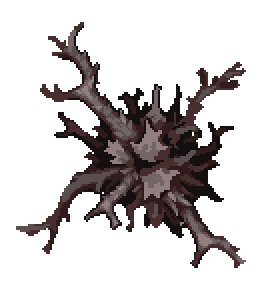
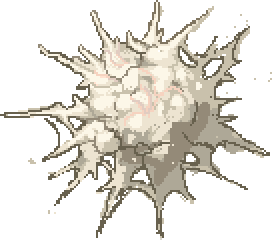
Arena waves, move thinker renderer away

diff --git a/Content/Bosses/BrainRedux/TheThinker.cs b/Content/Bosses/BrainRedux/TheThinker.cs
@@ -3,6 +3,7 @@ using StarlightRiver.Content.Biomes;
 using StarlightRiver.Content.Buffs;
 using StarlightRiver.Content.Tiles.Crimson;
 using StarlightRiver.Core.Systems.LightingSystem;
+using StarlightRiver.Core.Systems.PixelationSystem;
 using System;
 using System.Collections.Generic;
 using System.Linq;
@@ -13,7 +14,7 @@ using Terraria.ModLoader.IO;
 
 namespace StarlightRiver.Content.Bosses.BrainRedux
 {
-	internal class TheThinker : ModNPC
+	internal partial class TheThinker : ModNPC
 	{
 		public static readonly List<TheThinker> toRender = [];
 		public static Effect bodyShader;
@@ -47,8 +48,13 @@ namespace StarlightRiver.Content.Bosses.BrainRedux
 
 		public override void Load()
 		{
-			GraymatterBiome.onDrawHallucinationMap += DrawAura;
-			GraymatterBiome.onDrawOverHallucinationMap += DrawMe;
+			GraymatterBiome.onDrawHallucinationMap += DrawGrayAura;
+			GraymatterBiome.onDrawOverHallucinationMap += DrawShadedBody;
+		}
+
+		public override void SetStaticDefaults()
+		{
+			ModContent.GetInstance<PixelationSystem>().RegisterScreenTarget("ThinkerArena", "StarlightRiver/Assets/Bosses/BrainRedux/ShellColors", RenderLayer.OverPlayers);
 		}
 
 		public override void SetDefaults()
@@ -62,6 +68,7 @@ namespace StarlightRiver.Content.Bosses.BrainRedux
 			NPC.knockBackResist = 0f;
 			NPC.friendly = false;
 			NPC.noTileCollide = true;
+			NPC.hide = true;
 
 			NPC.boss = true;
 
@@ -318,59 +325,6 @@ namespace StarlightRiver.Content.Bosses.BrainRedux
 			return Helpers.Helper.CheckCircularCollision(NPC.Center, 64, target.Hitbox);
 		}
 
-		public override bool PreDraw(SpriteBatch spriteBatch, Vector2 screenPos, Color drawColor)
-		{
-			Texture2D tex = Assets.Bosses.BrainRedux.ShellBack.Value;
-			Vector2 pos = home - Main.screenPosition - tex.Size() / 2f;
-
-			LightingBufferRenderer.DrawWithLighting(pos, tex);
-
-			if (active)
-			{
-				var spike = Assets.Misc.SpikeTell.Value;
-				var solid = Assets.Bosses.BrainRedux.ShellSpike.Value;
-
-				for (int k = 0; k < 36; k++)
-				{
-					var rot = k / 36f * 6.28f;
-					Vector2 edge = home + Vector2.UnitX.RotatedBy(rot) * (hurtRadius + 50);
-					spriteBatch.Draw(spike, edge - Main.screenPosition, new Rectangle(spike.Width / 2, 0, spike.Width / 2, spike.Height), new Color(255, 50, 80, 0) * 0.25f, rot - 1.57f, new Vector2(spike.Width / 4f, spike.Height), 1.5f, 0, 0);
-					spriteBatch.Draw(solid, edge - Main.screenPosition, null, new Color(Lighting.GetSubLight(edge)), rot - 1.57f / 2f, solid.Size(), 1f, 0, 0);
-				}
-
-				for (int k = 0; k < 36; k++)
-				{
-					var rot = (k + 0.5f) / 36f * 6.28f;
-					var sin = (float)Math.Sin(Main.GameUpdateCount * 0.01f + k);
-					Vector2 edge = home + Vector2.UnitX.RotatedBy(rot) * (hurtRadius + 90 + sin * 40);
-					spriteBatch.Draw(spike, edge - Main.screenPosition, new Rectangle(spike.Width / 2, 0, spike.Width / 2, spike.Height), new Color(255, 50, 80, 0) * 0.25f * (1f - sin + 0.5f), rot - 1.57f, new Vector2(spike.Width / 4f, spike.Height), 1.5f, 0, 0);
-					spriteBatch.Draw(solid, edge - Main.screenPosition, null, new Color(Lighting.GetSubLight(edge)), rot - 1.57f / 2f, solid.Size(), 1f, 0, 0);
-				}
-
-				// TODO: Replace this with a mesh render mapping a texture to it
-				for (int k = 0; k < 72; k++)
-				{
-					var rot = k / 72f * 6.28f;
-					Vector2 edge = home + Vector2.UnitX.RotatedBy(rot) * (hurtRadius + 50);
-					spriteBatch.Draw(solid, edge - Main.screenPosition, null, Lighting.GetColor((edge / 16).ToPoint()), rot + 1.57f / 2f, solid.Size() / 2f , 1.5f, 0, 0);
-				}
-				for (int k = 0; k < 72; k++)
-				{
-					var rot = k / 72f * 6.28f;
-					Vector2 edge = home + Vector2.UnitX.RotatedBy(rot) * (hurtRadius + 70);
-					spriteBatch.Draw(solid, edge - Main.screenPosition, null, Lighting.GetColor((edge / 16).ToPoint()), rot + 1.57f / 2f + 3.14f, solid.Size() / 2f, 1.5f, 0, 0);
-				}
-				for (int k = 0; k < 72; k++)
-				{
-					var rot = k / 72f * 6.28f;
-					Vector2 edge = home + Vector2.UnitX.RotatedBy(rot) * (hurtRadius + 90);
-					spriteBatch.Draw(solid, edge - Main.screenPosition, null, Lighting.GetColor((edge / 16).ToPoint()), rot + 1.57f / 2f, solid.Size() / 2f, 1.5f, 0, 0);
-				}
-			}
-
-			return false;
-		}
-
 		public override void SaveData(TagCompound tag)
 		{
 			tag.Add("active", active);
@@ -386,50 +340,6 @@ namespace StarlightRiver.Content.Bosses.BrainRedux
 		public override bool? DrawHealthBar(byte hbPosition, ref float scale, ref Vector2 position)
 		{
 			return false;
-		}
-
-		private void DrawAura(SpriteBatch sb)
-		{
-			Texture2D glow = ModContent.Request<Texture2D>("StarlightRiver/Assets/Keys/GlowAlpha").Value;
-			Color color = Color.White;
-			color.A = 0;
-
-			foreach (TheThinker thinker in toRender)
-			{
-				for (int k = 0; k < 8; k++)
-				{
-					sb.Draw(glow, thinker.NPC.Center - Main.screenPosition, null, color, 0, glow.Size() / 2f, (140 + thinker.ExtraRadius) * 4 / glow.Width, 0, 0);
-				}
-			}
-
-			toRender.RemoveAll(n => n is null || !n.NPC.active);
-		}
-
-		private void DrawMe(SpriteBatch sb)
-		{
-			if (bodyShader is null)
-				bodyShader = Terraria.Graphics.Effects.Filters.Scene["ThinkerBody"].GetShader().Shader;
-
-			foreach (TheThinker thinker in toRender)
-			{
-				bodyShader.Parameters["u_resolution"].SetValue(Assets.Bosses.BrainRedux.Heart.Size());
-				bodyShader.Parameters["u_time"].SetValue(Main.GameUpdateCount * 0.015f);
-
-				bodyShader.Parameters["mainbody_t"].SetValue(Assets.Bosses.BrainRedux.Heart.Value);
-				bodyShader.Parameters["linemap_t"].SetValue(Assets.Bosses.BrainRedux.HeartLine.Value);
-				bodyShader.Parameters["noisemap_t"].SetValue(Assets.Noise.PerlinNoise.Value);
-				bodyShader.Parameters["overlay_t"].SetValue(Assets.Bosses.BrainRedux.HeartOver.Value);
-				bodyShader.Parameters["normal_t"].SetValue(Assets.Bosses.BrainRedux.HeartNormal.Value);
-
-				sb.End();
-				sb.Begin(default, default, SamplerState.PointWrap, default, default, bodyShader, Main.GameViewMatrix.TransformationMatrix);
-
-				Texture2D tex = Assets.Bosses.BrainRedux.Heart.Value;
-				sb.Draw(tex, thinker.NPC.Center - Main.screenPosition, null, Color.White, thinker.NPC.rotation, tex.Size() / 2f, thinker.NPC.scale, 0, 0);
-
-				sb.End();
-				sb.Begin(default, default, SamplerState.PointWrap, default, default, default, Main.GameViewMatrix.TransformationMatrix);
-			}
 		}
 	}
 }

diff --git a/Content/Bosses/BrainRedux/TheThinker.Renderer.cs b/Content/Bosses/BrainRedux/TheThinker.Renderer.cs
@@ -1,0 +1,156 @@
+using StarlightRiver.Core;
+using StarlightRiver.Core.Systems.LightingSystem;
+using StarlightRiver.Core.Systems.PixelationSystem;
+using StarlightRiver.Helpers;
+using System;
+using System.Collections.Generic;
+using Terraria.Graphics.Effects;
+
+namespace StarlightRiver.Content.Bosses.BrainRedux
+{
+	internal partial class TheThinker
+	{
+		private List<Vector2> arenaCache;
+		private Trail arenaTrail;
+
+		public override void DrawBehind(int index)
+		{
+			Main.instance.DrawCacheNPCProjectiles.Add(index);
+		}
+
+		public void DrawUnderShell()
+		{
+			Texture2D tex = Assets.Bosses.BrainRedux.ShellBack.Value;
+			Vector2 pos = home - Main.screenPosition - tex.Size() / 2f;
+
+			LightingBufferRenderer.DrawWithLighting(pos, tex);
+		}
+
+		public void DrawArena(SpriteBatch spriteBatch)
+		{
+			Texture2D spike = Assets.Misc.SpikeTell.Value;
+			Texture2D solid = Assets.Bosses.BrainRedux.ShellSpike.Value;
+
+			for (int k = 0; k < 36; k++)
+			{
+				float offset = (float)Math.Sin(k / 36f * 6.28f * 8 + Main.GameUpdateCount * 0.025f) * 15;
+				offset += (float)Math.Cos(k / 36f * 6.28f * 6 + Main.GameUpdateCount * 0.04f) * 15;
+
+				float rot = k / 36f * 6.28f;
+				Vector2 edge = home + Vector2.UnitX.RotatedBy(rot) * (hurtRadius + 50 + offset);
+				spriteBatch.Draw(spike, edge - Main.screenPosition, new Rectangle(spike.Width / 2, 0, spike.Width / 2, spike.Height), new Color(255, 50, 80, 0) * 0.25f, rot - 1.57f, new Vector2(spike.Width / 4f, spike.Height), 1.5f, 0, 0);
+				spriteBatch.Draw(solid, edge - Main.screenPosition, null, new Color(Lighting.GetSubLight(edge)), rot - 1.57f / 2f, solid.Size(), 1f, 0, 0);
+
+				rot = (k + 0.5f) / 36f * 6.28f;
+				float sin = (float)Math.Sin(Main.GameUpdateCount * 0.01f + k);
+				edge = home + Vector2.UnitX.RotatedBy(rot) * (hurtRadius + 90 + sin * 20 + offset);
+				spriteBatch.Draw(spike, edge - Main.screenPosition, new Rectangle(spike.Width / 2, 0, spike.Width / 2, spike.Height), new Color(255, 50, 80, 0) * 0.25f * (1f - sin + 0.5f), rot - 1.57f, new Vector2(spike.Width / 4f, spike.Height), 1.5f, 0, 0);
+				spriteBatch.Draw(solid, edge - Main.screenPosition, null, new Color(Lighting.GetSubLight(edge)), rot - 1.57f / 2f, solid.Size(), 1f, 0, 0);
+			}
+
+			ModContent.GetInstance<PixelationSystem>().QueueRenderAction("ThinkerArena", () =>
+			{
+				ManageArenaTrail();
+				DrawArenaEdgeTrail();
+			});
+		}
+
+		protected void ManageArenaTrail()
+		{
+			if (arenaCache is null || arenaCache.Count != 73)
+				arenaCache = new(new Vector2[73]);
+
+			for (int k = 0; k < 72; k++)
+			{
+				float rot = k / 72f * 6.28f;
+				float offset = (float)Math.Sin(k / 72f * 6.28f * 8 + Main.GameUpdateCount * 0.025f) * 15;
+				offset += (float)Math.Cos(k / 72f * 6.28f * 6 + Main.GameUpdateCount * 0.04f) * 15;
+
+				arenaCache[k] = home + Vector2.UnitX.RotatedBy(rot) * (hurtRadius + 70 + offset);
+			}
+
+			arenaCache[72] = arenaCache[0];
+
+			if (arenaTrail is null || arenaTrail.IsDisposed)
+			{
+				arenaTrail = new Trail(Main.instance.GraphicsDevice, 73, new NoTip(), factor => 56, factor =>
+				{
+					int index = (int)(factor.X * 72);
+					return new Color(Lighting.GetSubLight(arenaCache[index]));
+				});
+			}
+
+			arenaTrail.Positions = arenaCache.ToArray();
+			arenaTrail.NextPosition = NPC.Center;
+		}
+
+		public void DrawArenaEdgeTrail()
+		{
+			Effect effect = Filters.Scene["RepeatingChain"].GetShader().Shader;
+
+			var world = Matrix.CreateTranslation(-Main.screenPosition.Vec3());
+			Matrix view = Main.GameViewMatrix.TransformationMatrix;
+			var projection = Matrix.CreateOrthographicOffCenter(0, Main.screenWidth, Main.screenHeight, 0, -1, 1);
+
+			effect.Parameters["alpha"].SetValue(1f);
+			effect.Parameters["repeats"].SetValue(81f);
+			effect.Parameters["transformMatrix"].SetValue(world * view * projection);
+
+			effect.Parameters["sampleTexture"].SetValue(Assets.Bosses.BrainRedux.ArenaSegment.Value);
+			arenaTrail?.Render(effect);
+		}
+
+		public override bool PreDraw(SpriteBatch spriteBatch, Vector2 screenPos, Color drawColor)
+		{
+			DrawUnderShell();
+
+			if (active)
+				DrawArena(spriteBatch);
+
+			return false;
+		}
+
+		private void DrawGrayAura(SpriteBatch sb)
+		{
+			Texture2D glow = ModContent.Request<Texture2D>("StarlightRiver/Assets/Keys/GlowAlpha").Value;
+			Color color = Color.White;
+			color.A = 0;
+
+			foreach (TheThinker thinker in toRender)
+			{
+				for (int k = 0; k < 8; k++)
+				{
+					sb.Draw(glow, thinker.NPC.Center - Main.screenPosition, null, color, 0, glow.Size() / 2f, (140 + thinker.ExtraRadius) * 4 / glow.Width, 0, 0);
+				}
+			}
+
+			toRender.RemoveAll(n => n is null || !n.NPC.active);
+		}
+
+		private void DrawShadedBody(SpriteBatch sb)
+		{
+			bodyShader ??= Terraria.Graphics.Effects.Filters.Scene["ThinkerBody"].GetShader().Shader;
+
+			foreach (TheThinker thinker in toRender)
+			{
+				bodyShader.Parameters["u_resolution"].SetValue(Assets.Bosses.BrainRedux.Heart.Size());
+				bodyShader.Parameters["u_time"].SetValue(Main.GameUpdateCount * 0.015f);
+
+				bodyShader.Parameters["mainbody_t"].SetValue(Assets.Bosses.BrainRedux.Heart.Value);
+				bodyShader.Parameters["linemap_t"].SetValue(Assets.Bosses.BrainRedux.HeartLine.Value);
+				bodyShader.Parameters["noisemap_t"].SetValue(Assets.Noise.PerlinNoise.Value);
+				bodyShader.Parameters["overlay_t"].SetValue(Assets.Bosses.BrainRedux.HeartOver.Value);
+				bodyShader.Parameters["normal_t"].SetValue(Assets.Bosses.BrainRedux.HeartNormal.Value);
+
+				sb.End();
+				sb.Begin(default, default, SamplerState.PointWrap, default, default, bodyShader, Main.GameViewMatrix.TransformationMatrix);
+
+				Texture2D tex = Assets.Bosses.BrainRedux.Heart.Value;
+				sb.Draw(tex, thinker.NPC.Center - Main.screenPosition, null, Color.White, thinker.NPC.rotation, tex.Size() / 2f, thinker.NPC.scale, 0, 0);
+
+				sb.End();
+				sb.Begin(default, default, SamplerState.PointWrap, default, default, default, Main.GameViewMatrix.TransformationMatrix);
+			}
+		}
+	}
+}
